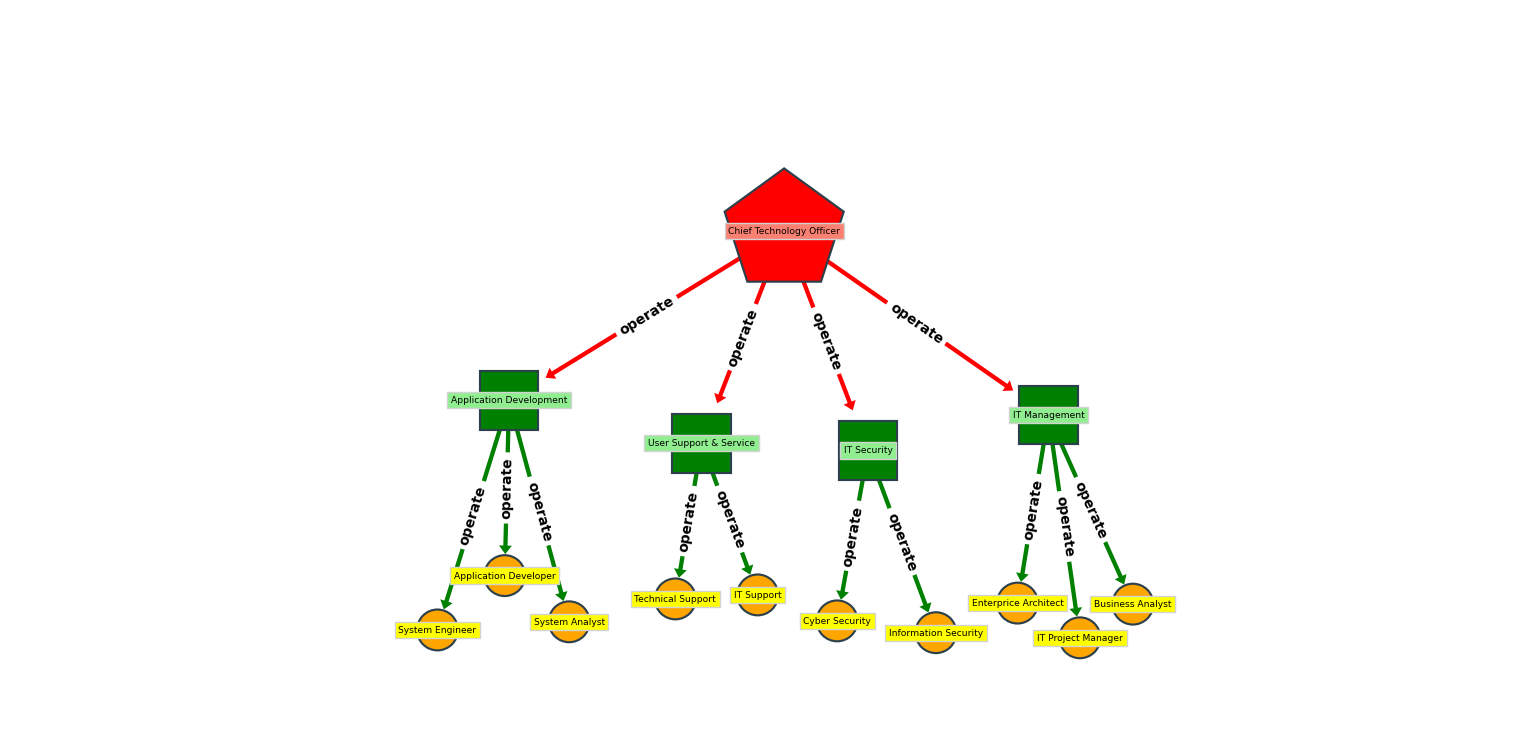
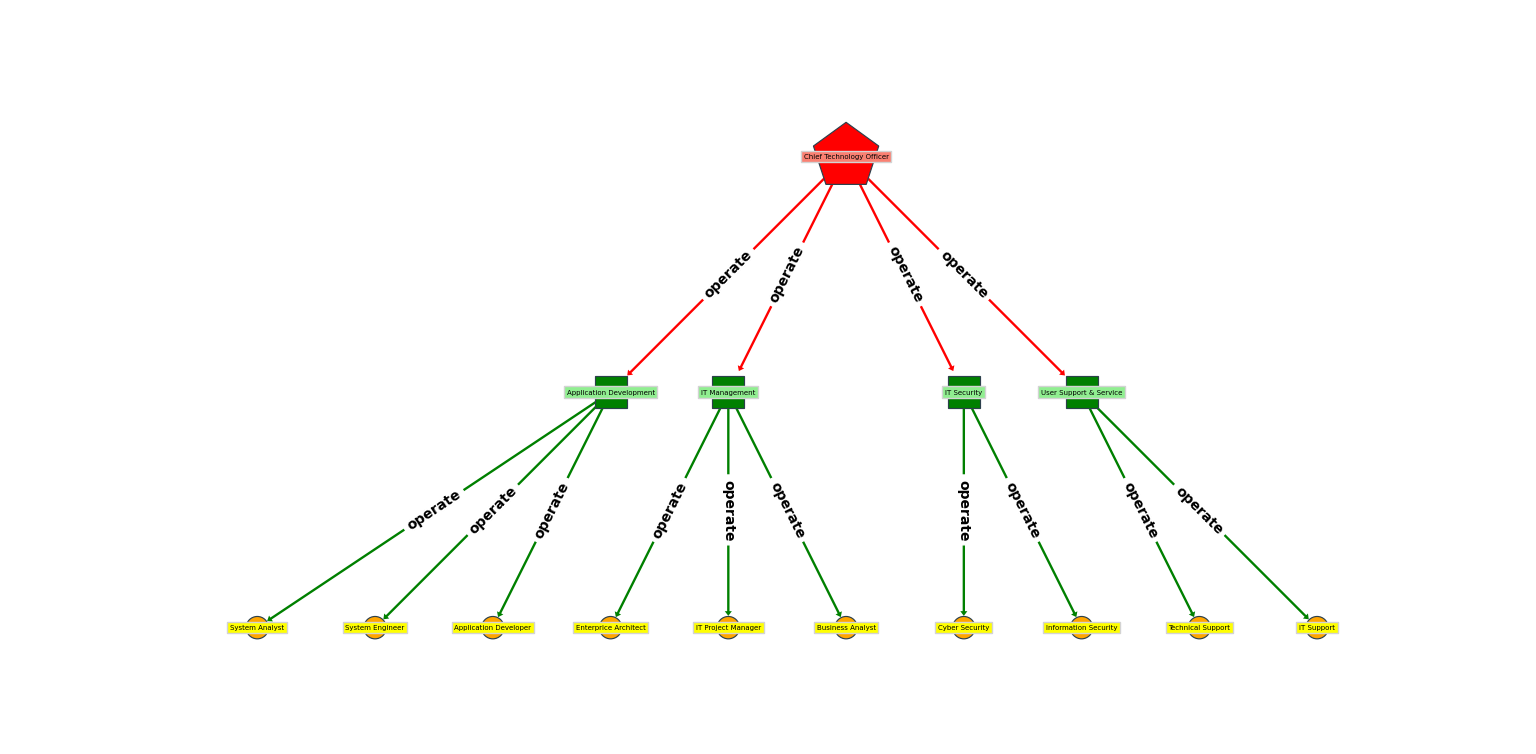
Add graph, editable_graph and interactive_graph.
Make 3 different graphs in each files.

diff --git a/main.py b/main.py
@@ -1,78 +1,67 @@
 import matplotlib.pyplot as plt
 import networkx as nx
-from netgraph import InteractiveGraph
 import csv
+from interactive_graph import create_interactive_graph
+from graph import create_graph
+from editable_graph import create_editable_graph
 
 if __name__ == '__main__':
 
+    # All variables to draw a graph
     edges = []
     size, color_n, labels_n, shapes, edge_labels, edge_color, node_community, label_backgrounds = ({} for i in range(8))
 
     with open("graph_data.csv") as graph_data:
         reader = csv.DictReader(graph_data)
         for row in reader:
+            # Add node size to variable, for example: {"0": 15, "1": 10,...}
             size[row["node"]] = int(row["node_size"])
+
+            # Add node color to variable, for example: {"0": "red", "1": "green",...}
             color_n[row["node"]] = row["node_color"]
+
+            # Add node labels to variable, for example: {"0": "Chief Technology Officer",...}
             labels_n[row["node"]] = row["node_label"]
+
+            # Add node shapes to variable, for example: {"0": "p", "1": "s",...}
             shapes[row["node"]] = row["node_shape"]
+
+            # Add node groups of community to node layout, for example: {"0": "0", "1": "1", "2": "1",..., "5": "3",...}
             node_community[row["node"]] = row["node_community"]
+
+            # Add node label background color to variable, for example: {"0": "salmon", "1": "lightgreen",...}
             label_backgrounds[row["node"]] = row["background_color"]
+
             if row["first_node"] != "":
+
+                # Add edges to variable, for example: {("0", "1"), ("0", "2"),...}
                 edges.append((row["first_node"], row["second_node"]))
+
+                # Add edge labels to variable, for example: {("0", "1"): "operate", ("0", "2"): "operate",...}
                 edge_labels[(row["first_node"], row["second_node"])] = row["edge_label"]
+                
+                # Add edge color to variable, for example: {("0", "1"): "red",... ("1", "5"): "green",...}
                 edge_color[(row["first_node"], row["second_node"])] = row["edge_color"]
 
         # I don't know what it is
+        # fig, (ax1, ax2) = plt.subplots(1, 2)
         fig, ax = plt.subplots()
 
         # Create DiGraph
         graph_data = nx.DiGraph(edges)
 
+        # Create Interactive_Graph
+        # ig = create_interactive_graph(graph_data, node_community, size, color_n, labels_n, shapes, edge_labels, edge_color, ax, label_backgrounds)
+
+        # Create Graph
         # Create position of each element on sheet by X-axis and Y-axis (X, Y)
-        # pos = {0: (0, 0)}
-        # x = -3
-        # y = -2.5
-        # for i in variables:
-        #     if 0 < i <= len(gmails):
-        #         pos[i] = (x, y)
-        #         y += 0.5
-        #     elif i > len(gmails):
-        #         if y > 2.5:
-        #             y = 2.5
-        #             x = 3
-        #         pos[i] = (x, y)
-        #         y -= 0.5
+        # pos = {"0": (0, 1), "1": (-1, 0), "2": (-0.5, 0), "3": (0.5, 0), "4": (1, 0), "5": (-2.5, -1), "6": (-2, -1),
+        #        "7": (-1.5, -1), "8": (-1, -1), "9": (-0.5, -1), "10": (0, -1), "11": (0.5, -1), "12": (1, -1),
+        #        "13": (1.5, -1), "14": (2, -1)}
+        # g = create_graph(graph_data, pos, size, color_n, labels_n, shapes, edge_labels, edge_color, ax, label_backgrounds)
 
-        # There using InteractiveGraph, but you can also use EditableGraph, Graph
-        g = InteractiveGraph(graph_data,
-                             node_layout='community',  # or you can use pos - X, Y axis
-                             # if you use node_layout='community'
-                             node_layout_kwargs=dict(node_to_community=node_community),
-                             node_size=size,
-                             node_color=color_n,
-                             node_labels=labels_n,
-                             node_label_fontdict={'backgroundcolor': 'lightgray'},
-                             node_shape=shapes,
-                             edge_labels=edge_labels,
-                             edge_layout='straight',  # or you can use 'straight', 'curved' layout
-                             edge_label_fontdict=dict(fontweight='bold'),
-                             edge_color=edge_color,
-                             edge_alpha=1,  # transparency from 0 to 1
-                             arrows=True,  # draw edges with arrow heads.
-                             ax=ax
-                             )
-
-        # Create background color to our node labels
-        for node, color in label_backgrounds.items():
-            g.node_label_artists[node].set_backgroundcolor(color)
-
-        # We can control font size of our node labels
-        for node, label in g.node_label_artists.items():
-            fontsize = label.get_fontsize()
-            label.set_fontsize(fontsize * 5)
+        # Create EditableGraph
+        eg = create_editable_graph(graph_data, node_community, size, color_n, labels_n, shapes, edge_labels, edge_color, ax, label_backgrounds)
 
         # Show our Graph
         plt.show()
-
-        # You can use help cheatsheet each of graph: EditableGraph, Graph, InteractiveGraph
-        # help(InteractiveGraph)

diff --git a/interactive_graph.py b/interactive_graph.py
@@ -1,0 +1,32 @@
+from netgraph import InteractiveGraph
+
+
+def create_interactive_graph(graph_data, node_community, size, color_n, labels_n, shapes, edge_labels, edge_color, ax, label_backgrounds):
+    g = InteractiveGraph(graph_data,
+                         node_layout='community',  # or you can use pos - X, Y axis
+                         # if you use node_layout='community', you should clarify node_layout_kwargs:
+                         node_layout_kwargs=dict(node_to_community=node_community),
+                         node_size=size,
+                         node_color=color_n,
+                         node_labels=labels_n,
+                         node_label_fontdict={'backgroundcolor': 'lightgray'},
+                         node_shape=shapes,
+                         edge_labels=edge_labels,
+                         edge_layout='straight',  # or you can use 'straight', 'curved' layout
+                         edge_label_fontdict=dict(fontweight='bold'),
+                         edge_color=edge_color,
+                         edge_alpha=1,  # transparency from 0 to 1
+                         arrows=True,  # draw edges with arrow heads.
+                         ax=ax
+                         )
+
+    # Create background color to our node labels
+    for node, color in label_backgrounds.items():
+        g.node_label_artists[node].set_backgroundcolor(color)
+
+    # We can control font size of our node labels
+    for node, label in g.node_label_artists.items():
+        fontsize = label.get_fontsize()
+        label.set_fontsize(fontsize * 5)
+
+    return g

diff --git a/editable_graph.py b/editable_graph.py
@@ -1,0 +1,27 @@
+from netgraph import EditableGraph
+
+
+def create_editable_graph(graph_data, node_community, size, color_n, labels_n, shapes, edge_labels, edge_color, ax, label_backgrounds):
+    g = EditableGraph(graph_data,
+                      node_layout='community',  # or you can use pos - X, Y axis
+                      # if you use node_layout='community', you should clarify node_layout_kwargs:
+                      node_layout_kwargs=dict(node_to_community=node_community),
+                      node_size=size,
+                      node_color=color_n,
+                      node_labels=labels_n,
+                      node_label_fontdict=dict(size=5),
+                      node_shape=shapes,
+                      edge_labels=edge_labels,
+                      edge_layout='straight',  # or you can use 'straight', 'curved' layout
+                      edge_label_fontdict=dict(fontweight='bold'),
+                      edge_color=edge_color,
+                      edge_alpha=1,  # transparency from 0 to 1
+                      arrows=True,  # draw edges with arrow heads.
+                      ax=ax
+                      )
+
+    # Create background color to our node labels
+    for node, color in label_backgrounds.items():
+        g.node_label_artists[node].set_backgroundcolor(color)
+
+    return g

diff --git a/graph.py b/graph.py
@@ -1,0 +1,30 @@
+from netgraph import Graph
+
+
+def create_graph(graph_data, pos, size, color_n, labels_n, shapes, edge_labels, edge_color, ax, label_backgrounds):
+    g = Graph(graph_data,
+              node_layout=pos,
+              node_size=size,
+              node_color=color_n,
+              node_labels=labels_n,
+              node_label_fontdict={'backgroundcolor': 'lightgray'},
+              node_shape=shapes,
+              edge_labels=edge_labels,
+              edge_layout='straight',  # or you can use 'straight', 'curved' layout
+              edge_label_fontdict=dict(fontweight='bold'),
+              edge_color=edge_color,
+              edge_alpha=1,  # transparency from 0 to 1
+              arrows=True,  # draw edges with arrow heads.
+              ax=ax
+              )
+
+    # Create background color to our node labels
+    for node, color in label_backgrounds.items():
+        g.node_label_artists[node].set_backgroundcolor(color)
+
+    # We can control font size of our node labels
+    for node, label in g.node_label_artists.items():
+        fontsize = label.get_fontsize()
+        label.set_fontsize(fontsize * 5)
+
+    return g
